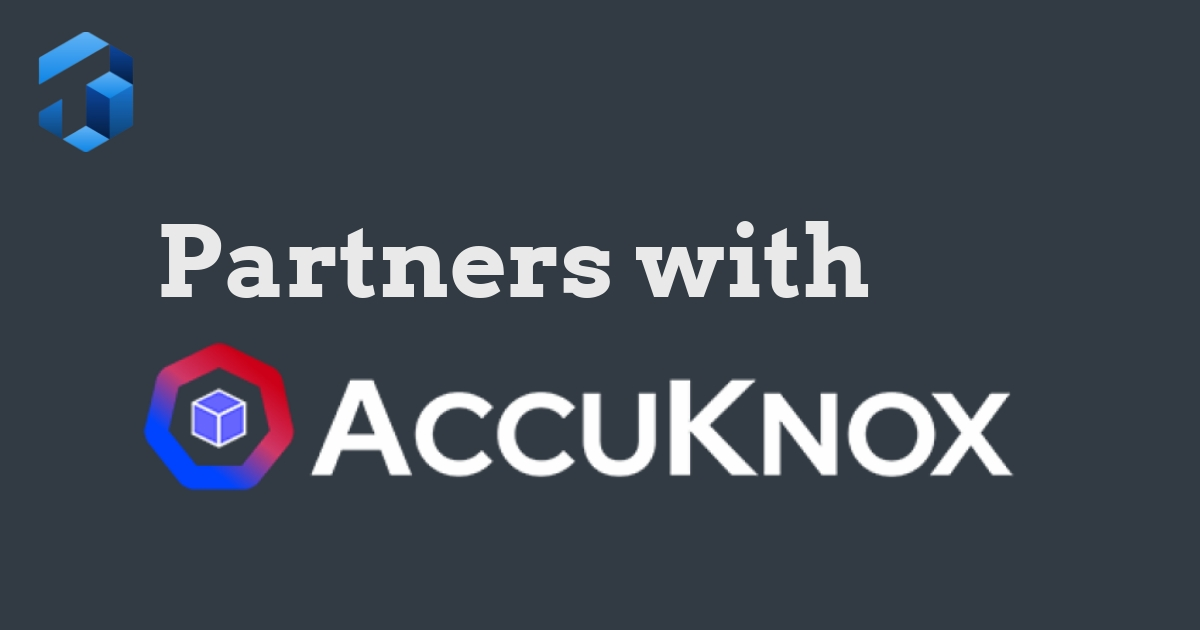
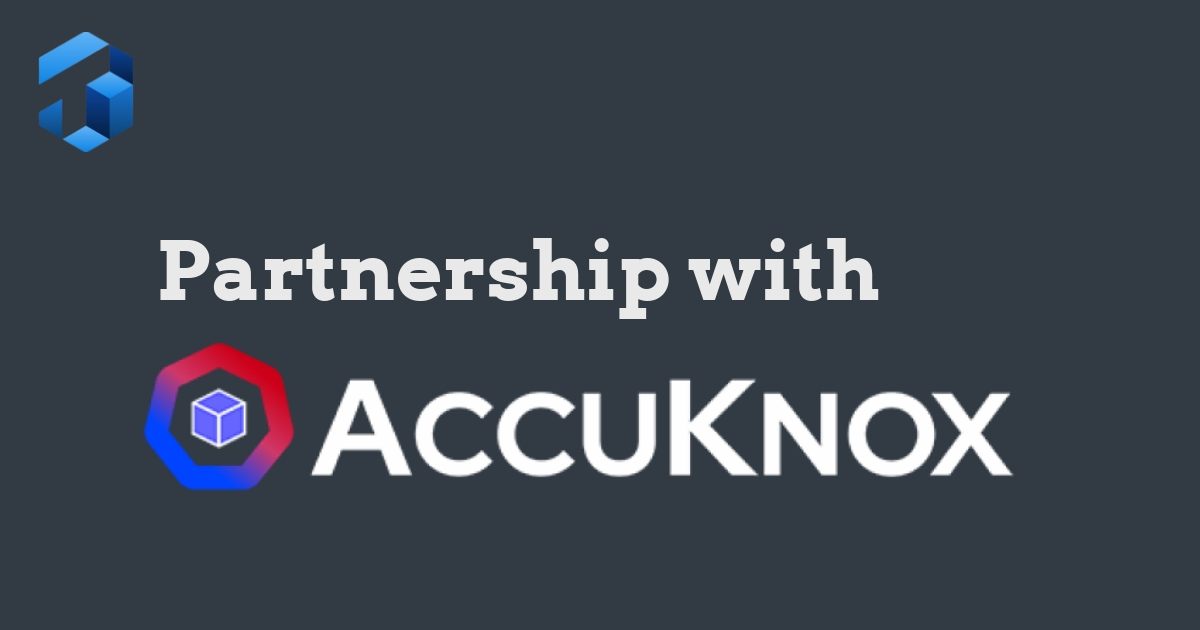
🍱 Added new opengraph images with the text 'partnership'

Changed region(s): [[0.1233, 0.3317, 0.74, 0.5127]]

diff --git a/app/partnership/fortinet/page.tsx b/app/partnership/fortinet/page.tsx
@@ -5,10 +5,10 @@ import React from "react";
 import FortinetLogo from "../../../public/images/brands/Fortinet/fortinet-logo.svg";
 
 const fortinetMetadata = {
-  url: "https://technosive.co.uk/partners/fortinet",
-  title: "Partners with Fortinet | Technosive",
+  url: "https://technosive.co.uk/partnership/fortinet",
+  title: "Partnership with Fortinet | Technosive",
   description:
-    "Technosive partners with Fortinet® for tailored cybersecurity solutions, bolstering digital security with expert support and seamless integration.",
+    "Partnership with Fortinet® for tailored cybersecurity solutions, bolstering digital security with expert support and seamless integration.",
   keywords: [
     "Technosive",
     "Fortinet",
@@ -30,7 +30,7 @@ const fortinetMetadata = {
     "Digital Assets",
     "Security posture",
   ],
-  imgUrl: "https://technosive.co.uk/images/brands/fortinet/opengraph.webp",
+  imgUrl: "https://technosive.co.uk/images/brands/Fortinet/opengraph.webp",
   imgAltText: "Technosive",
 };
 

diff --git a/app/partnership/accuknox/page.tsx b/app/partnership/accuknox/page.tsx
@@ -5,10 +5,10 @@ import React from "react";
 import AccuKnoxLogo from "../../../public/images/brands/AccuKnox/accuknox-logo-light.webp";
 
 const accuknoxMetadata = {
-  url: "https://technosive.co.uk/partners/accuknox",
-  title: "Partners with AccuKnox | Technosive",
+  url: "https://technosive.co.uk/partnership/accuknox",
+  title: "Partnership with AccuKnox | Technosive",
   description:
-    "Technosive partners with AccuKnox for top-tier cloud security solutions, including CNAPP platform, Kubernetes security, and expert consultation.",
+    "Partnership with AccuKnox for top-tier cloud security solutions, including CNAPP platform, Kubernetes security, and expert consultation.",
   keywords: [
     "Technosive",
     "Partnership",
